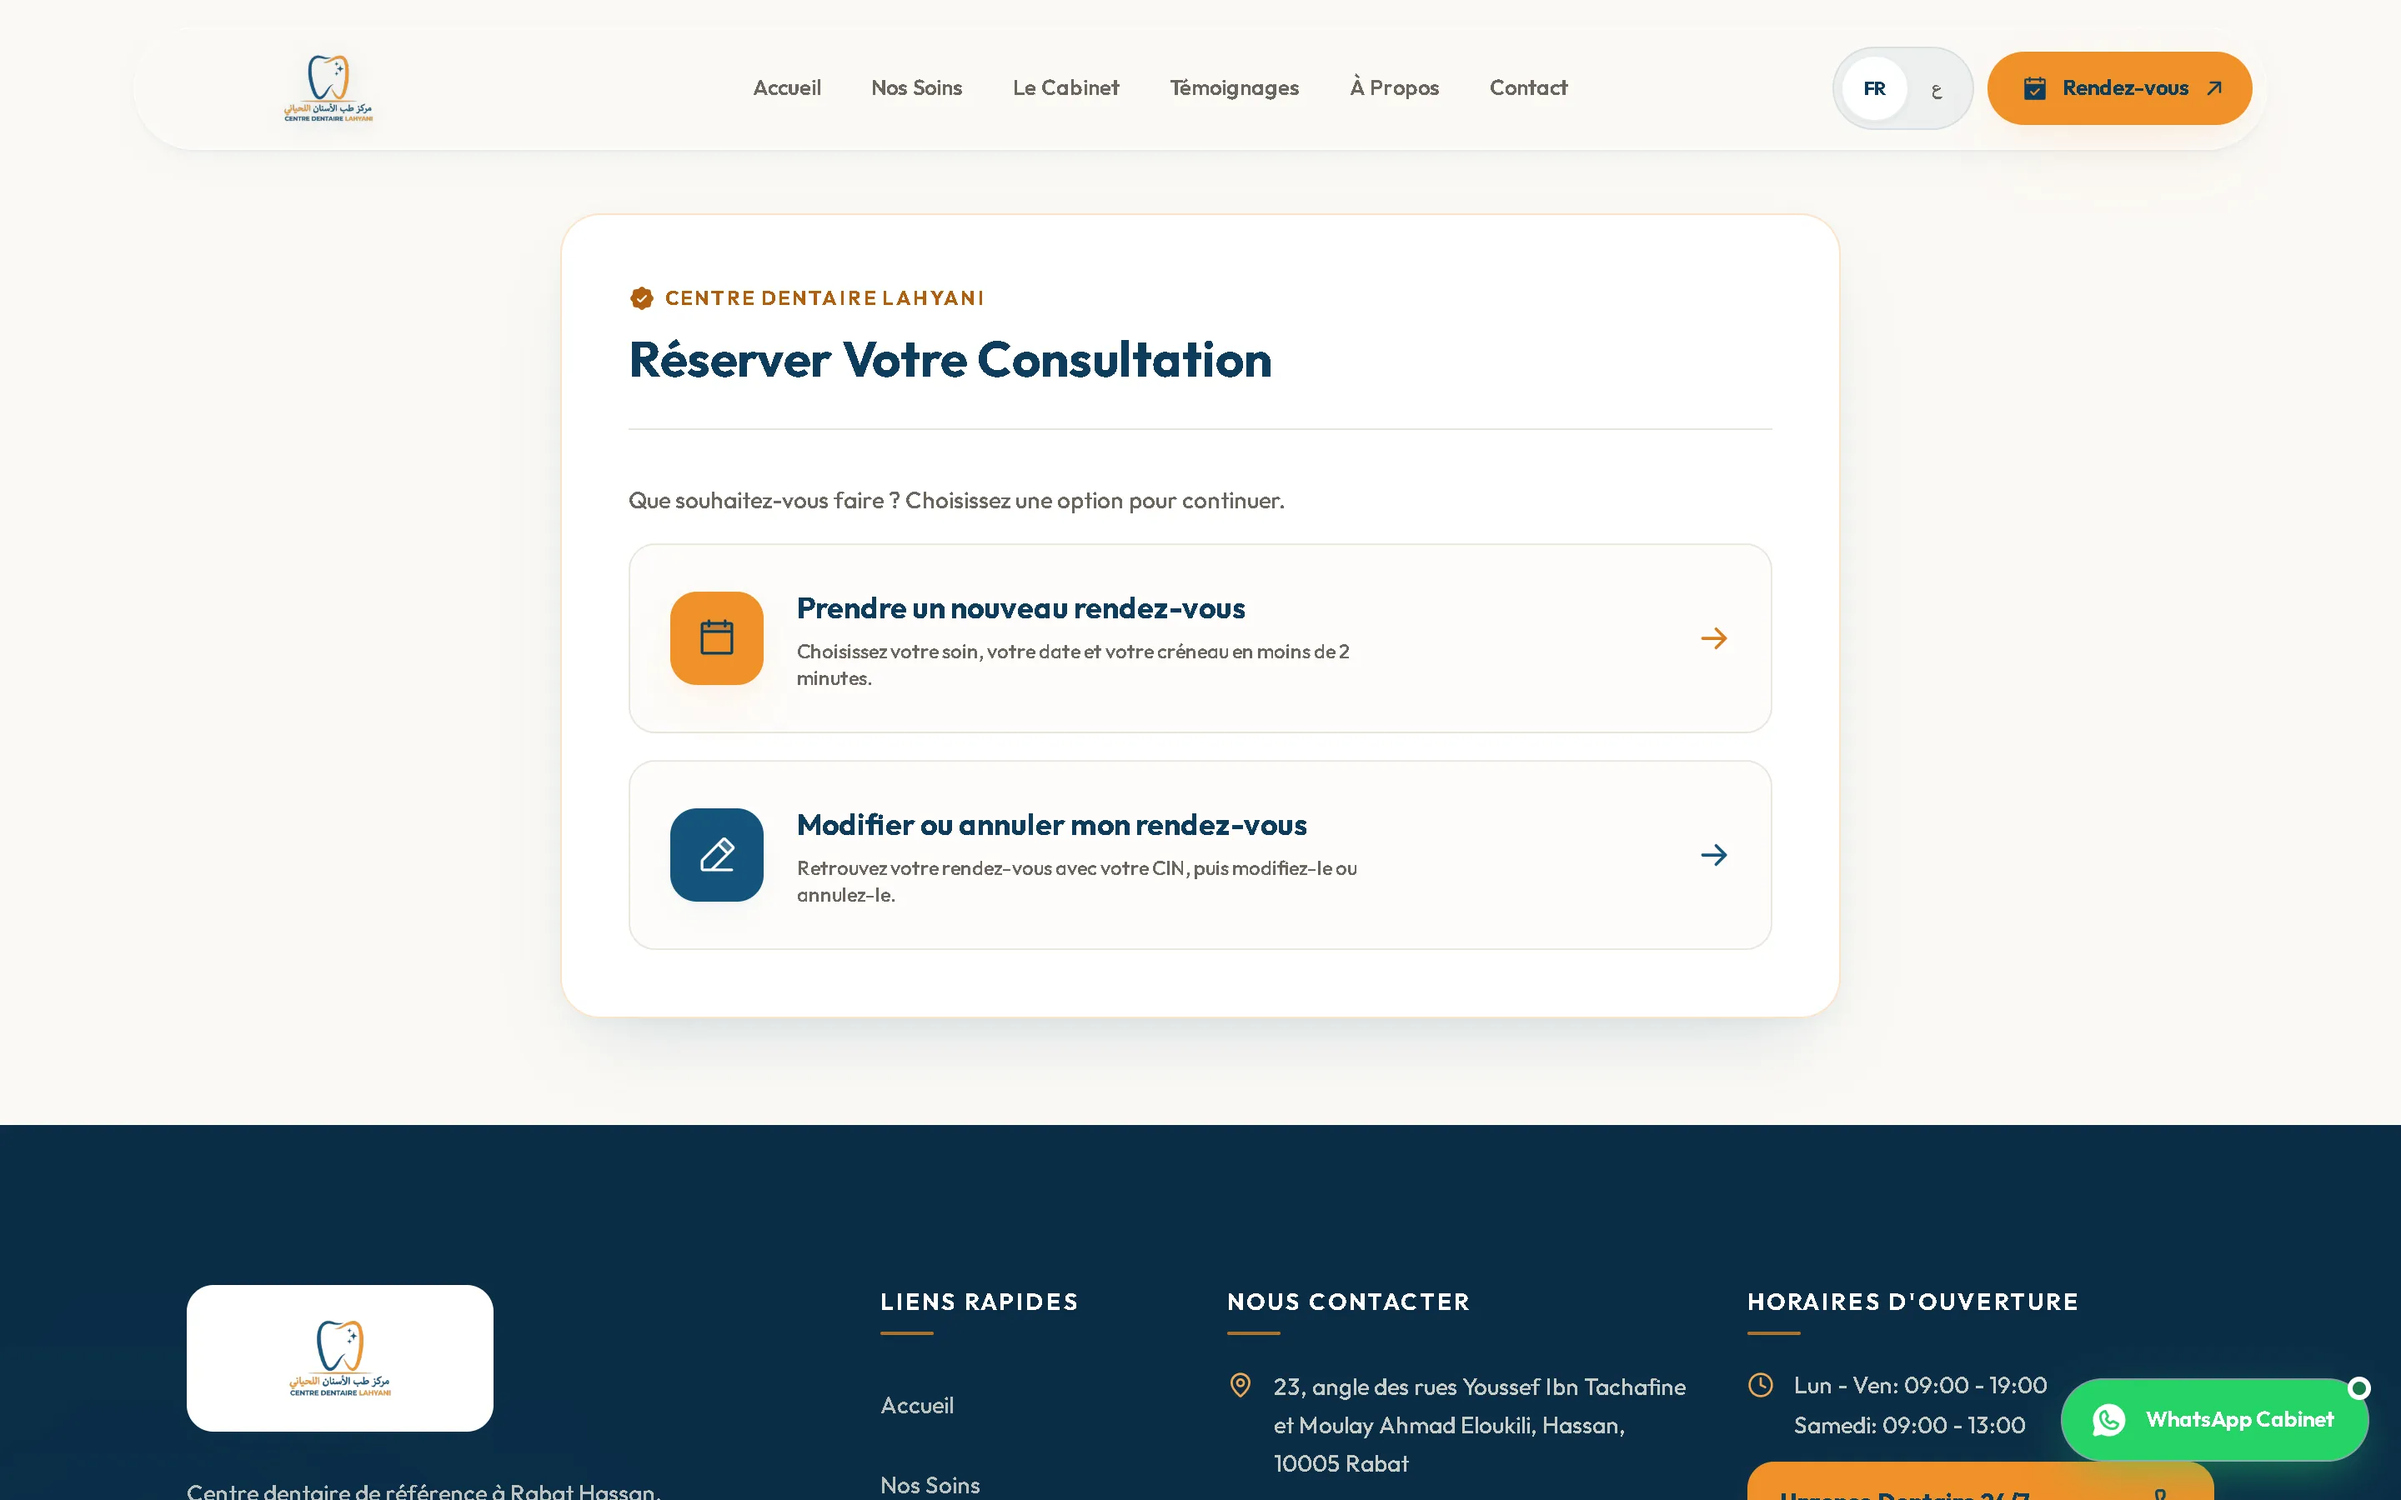
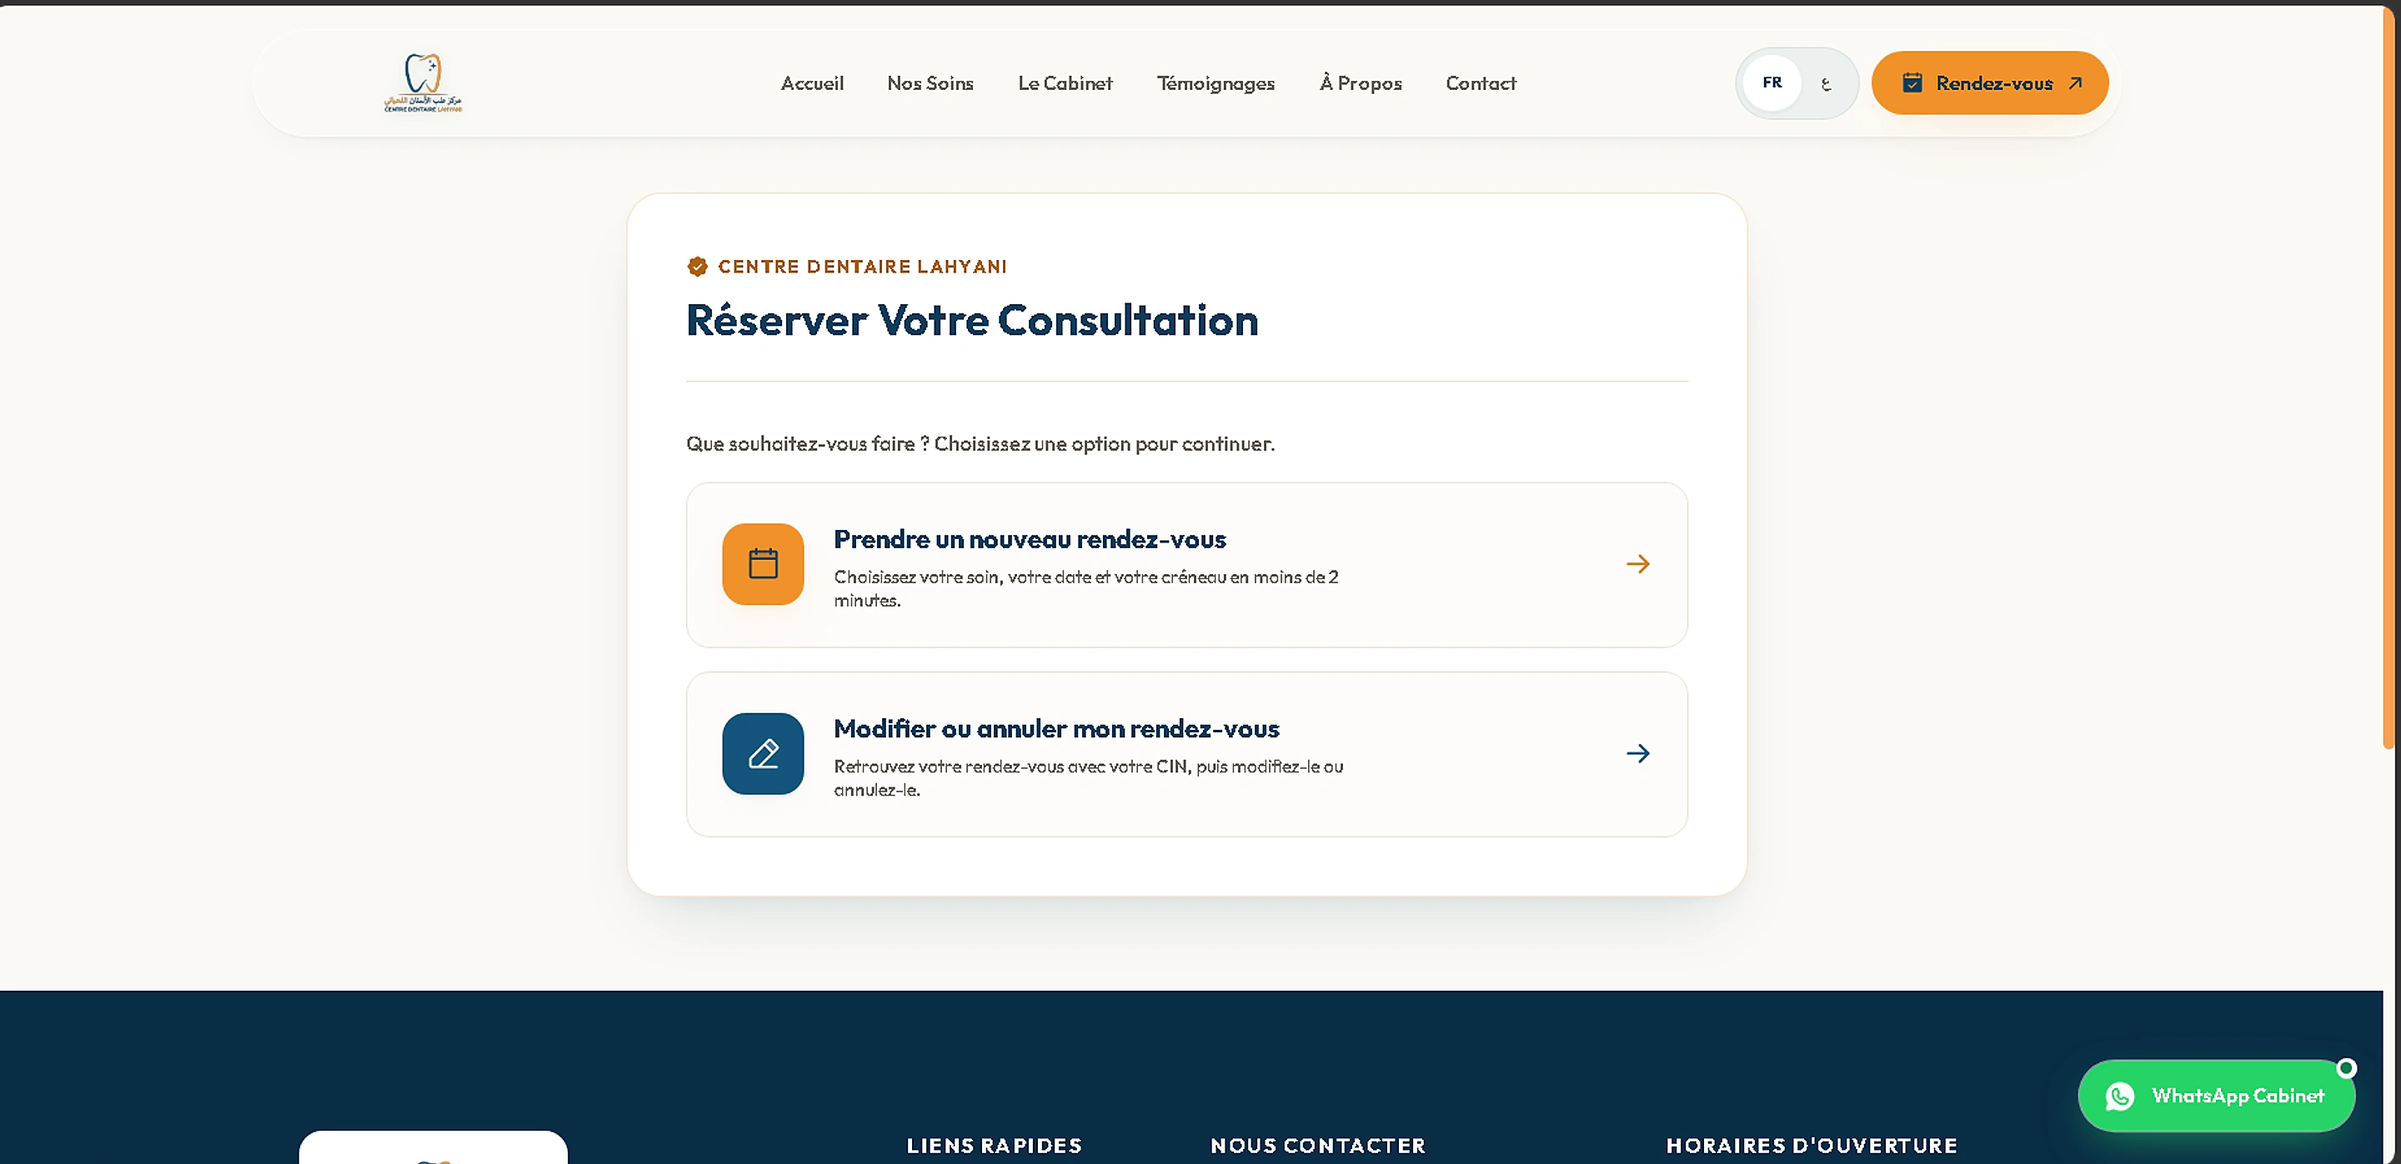
feat(lahyani): upgrade case study gallery to 5 high-res real screenshots

diff --git a/site/src/lib/i18n.ts b/site/src/lib/i18n.ts
@@ -42,7 +42,9 @@ export const t = {
         captions: {
           "lahyani-hero": "lahyani — accueil (site bilingue fr / ar)",
           "lahyani-booking": "lahyani — réservation : réserver votre consultation",
-          "lahyani-admin": "lahyani — tableau de bord praticien & agenda",
+          "lahyani-manage": "lahyani — gestion et modification de rendez-vous",
+          "lahyani-reviews": "lahyani — avis patients vérifiés Google",
+          "lahyani-admin": "lahyani — tableau de bord soins & odontogramme",
           "auradrive-hero": "auradrive — accueil, recherche de disponibilités",
           "auradrive-catalog": "auradrive — catalogue supercars & flotte",
           "auradrive-services": "auradrive — conciergerie & support 24/7",
@@ -211,7 +213,9 @@ export const t = {
         captions: {
           "lahyani-hero": "lahyani — home (bilingual fr / ar site)",
           "lahyani-booking": "lahyani — booking: reserve your consultation",
-          "lahyani-admin": "lahyani — practitioner dashboard & schedule",
+          "lahyani-manage": "lahyani — appointment management & changes",
+          "lahyani-reviews": "lahyani — verified Google patient reviews",
+          "lahyani-admin": "lahyani — clinical dashboard & dental chart",
           "auradrive-hero": "auradrive — home, availability search",
           "auradrive-catalog": "auradrive — supercar fleet & catalogue",
           "auradrive-services": "auradrive — concierge & 24/7 elite support",

diff --git a/preview/design-preview-v8.html b/preview/design-preview-v8.html
@@ -597,7 +597,7 @@ $ ./run-demo-system   <span class="term__cursor" aria-hidden="true"></span></spa
     { slug:'lahyani', name:'Centre Dentaire Lahyani', sector:'Cabinet dentaire · Rabat', accent:'#f59e0b',
       summary:"Site vitrine bilingue FR/AR avec prise de rendez-vous en ligne 24h/24, doublé d'un tableau de bord complet : agenda, dossiers patients, odontogramme et facturation.",
       live:'https://cabinet-lahyani.vercel.app/fr',
-      shots:['lahyani-hero','lahyani-booking','lahyani-admin'],
+      shots:['lahyani-hero','lahyani-booking','lahyani-manage','lahyani-reviews','lahyani-admin'],
       deviceShot:'lahyani-booking', deviceLabel:'Vue : réservation en ligne', caseHref:'#cas-lahyani', caseLabel:"Lire l'étude de cas" },
     { slug:'auradrive', name:'AuraDrive', sector:'Location de voitures de luxe · Maroc', accent:'#d8be75',
       summary:"Réservation en ligne, suivi de réservation en temps réel et véhicules en 3D 360°. Derrière : un portail complet — flotte, contrats PDF automatiques, liste noire, entretien.",
